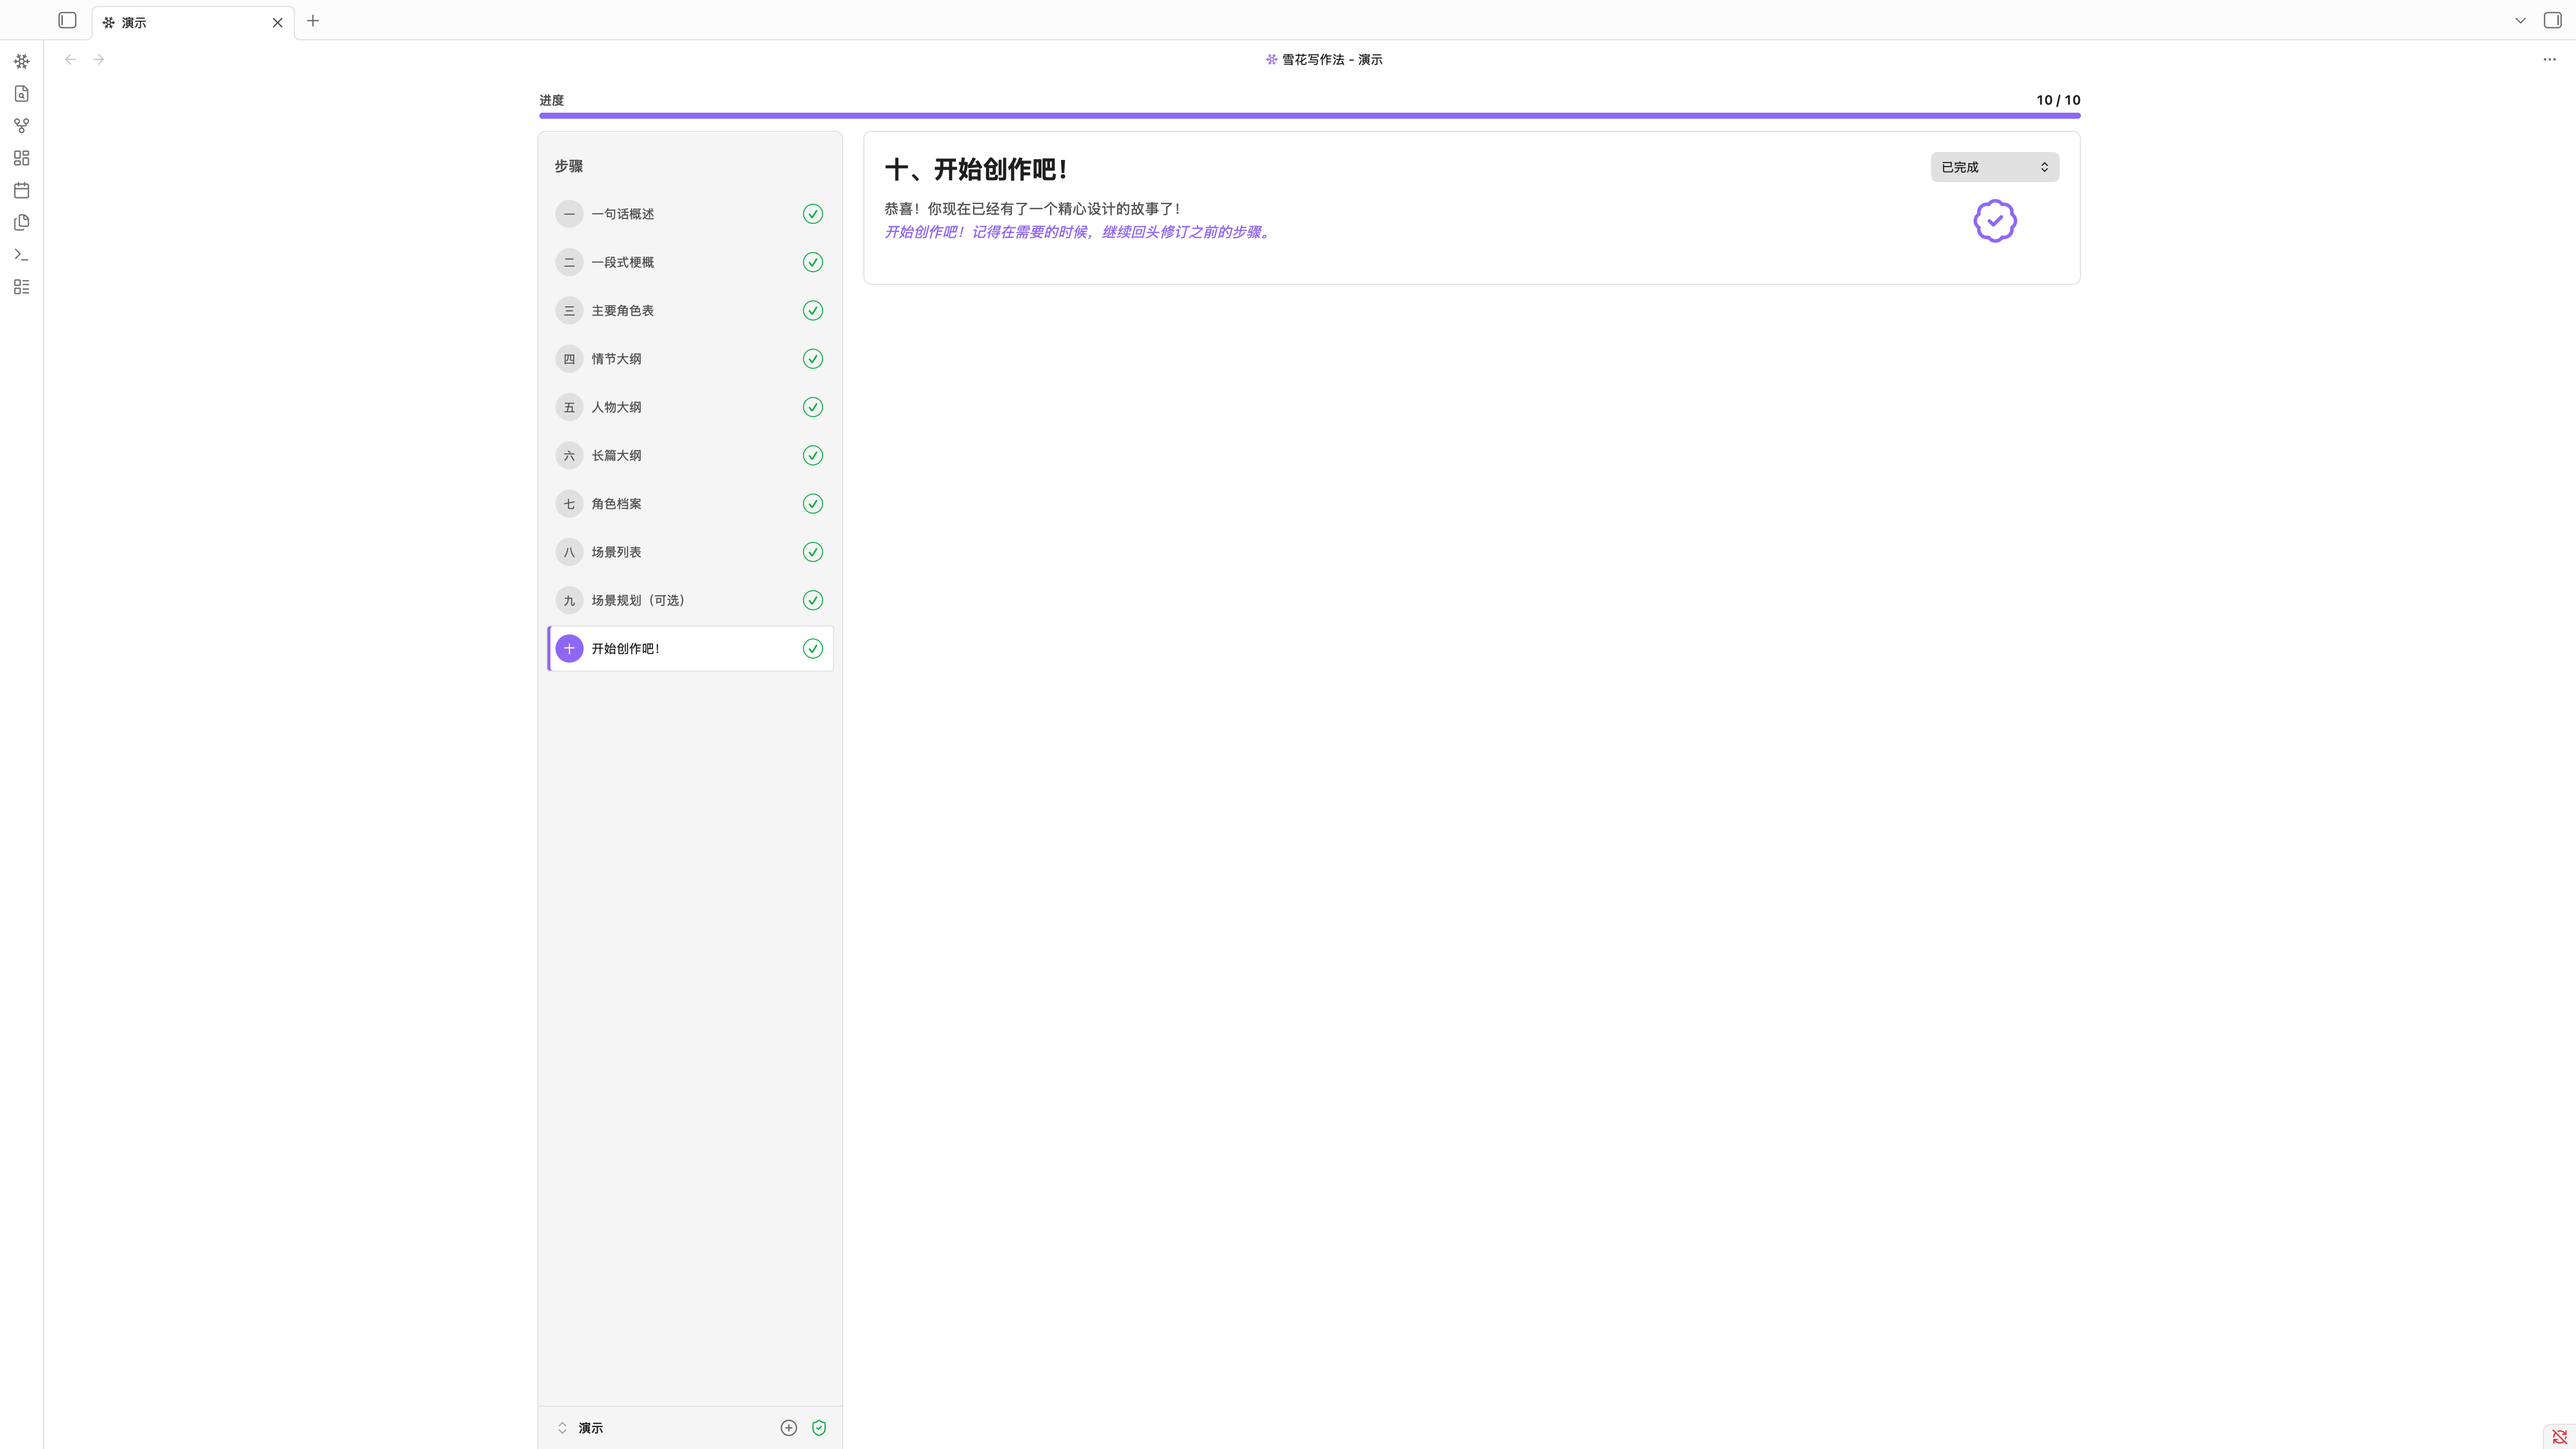
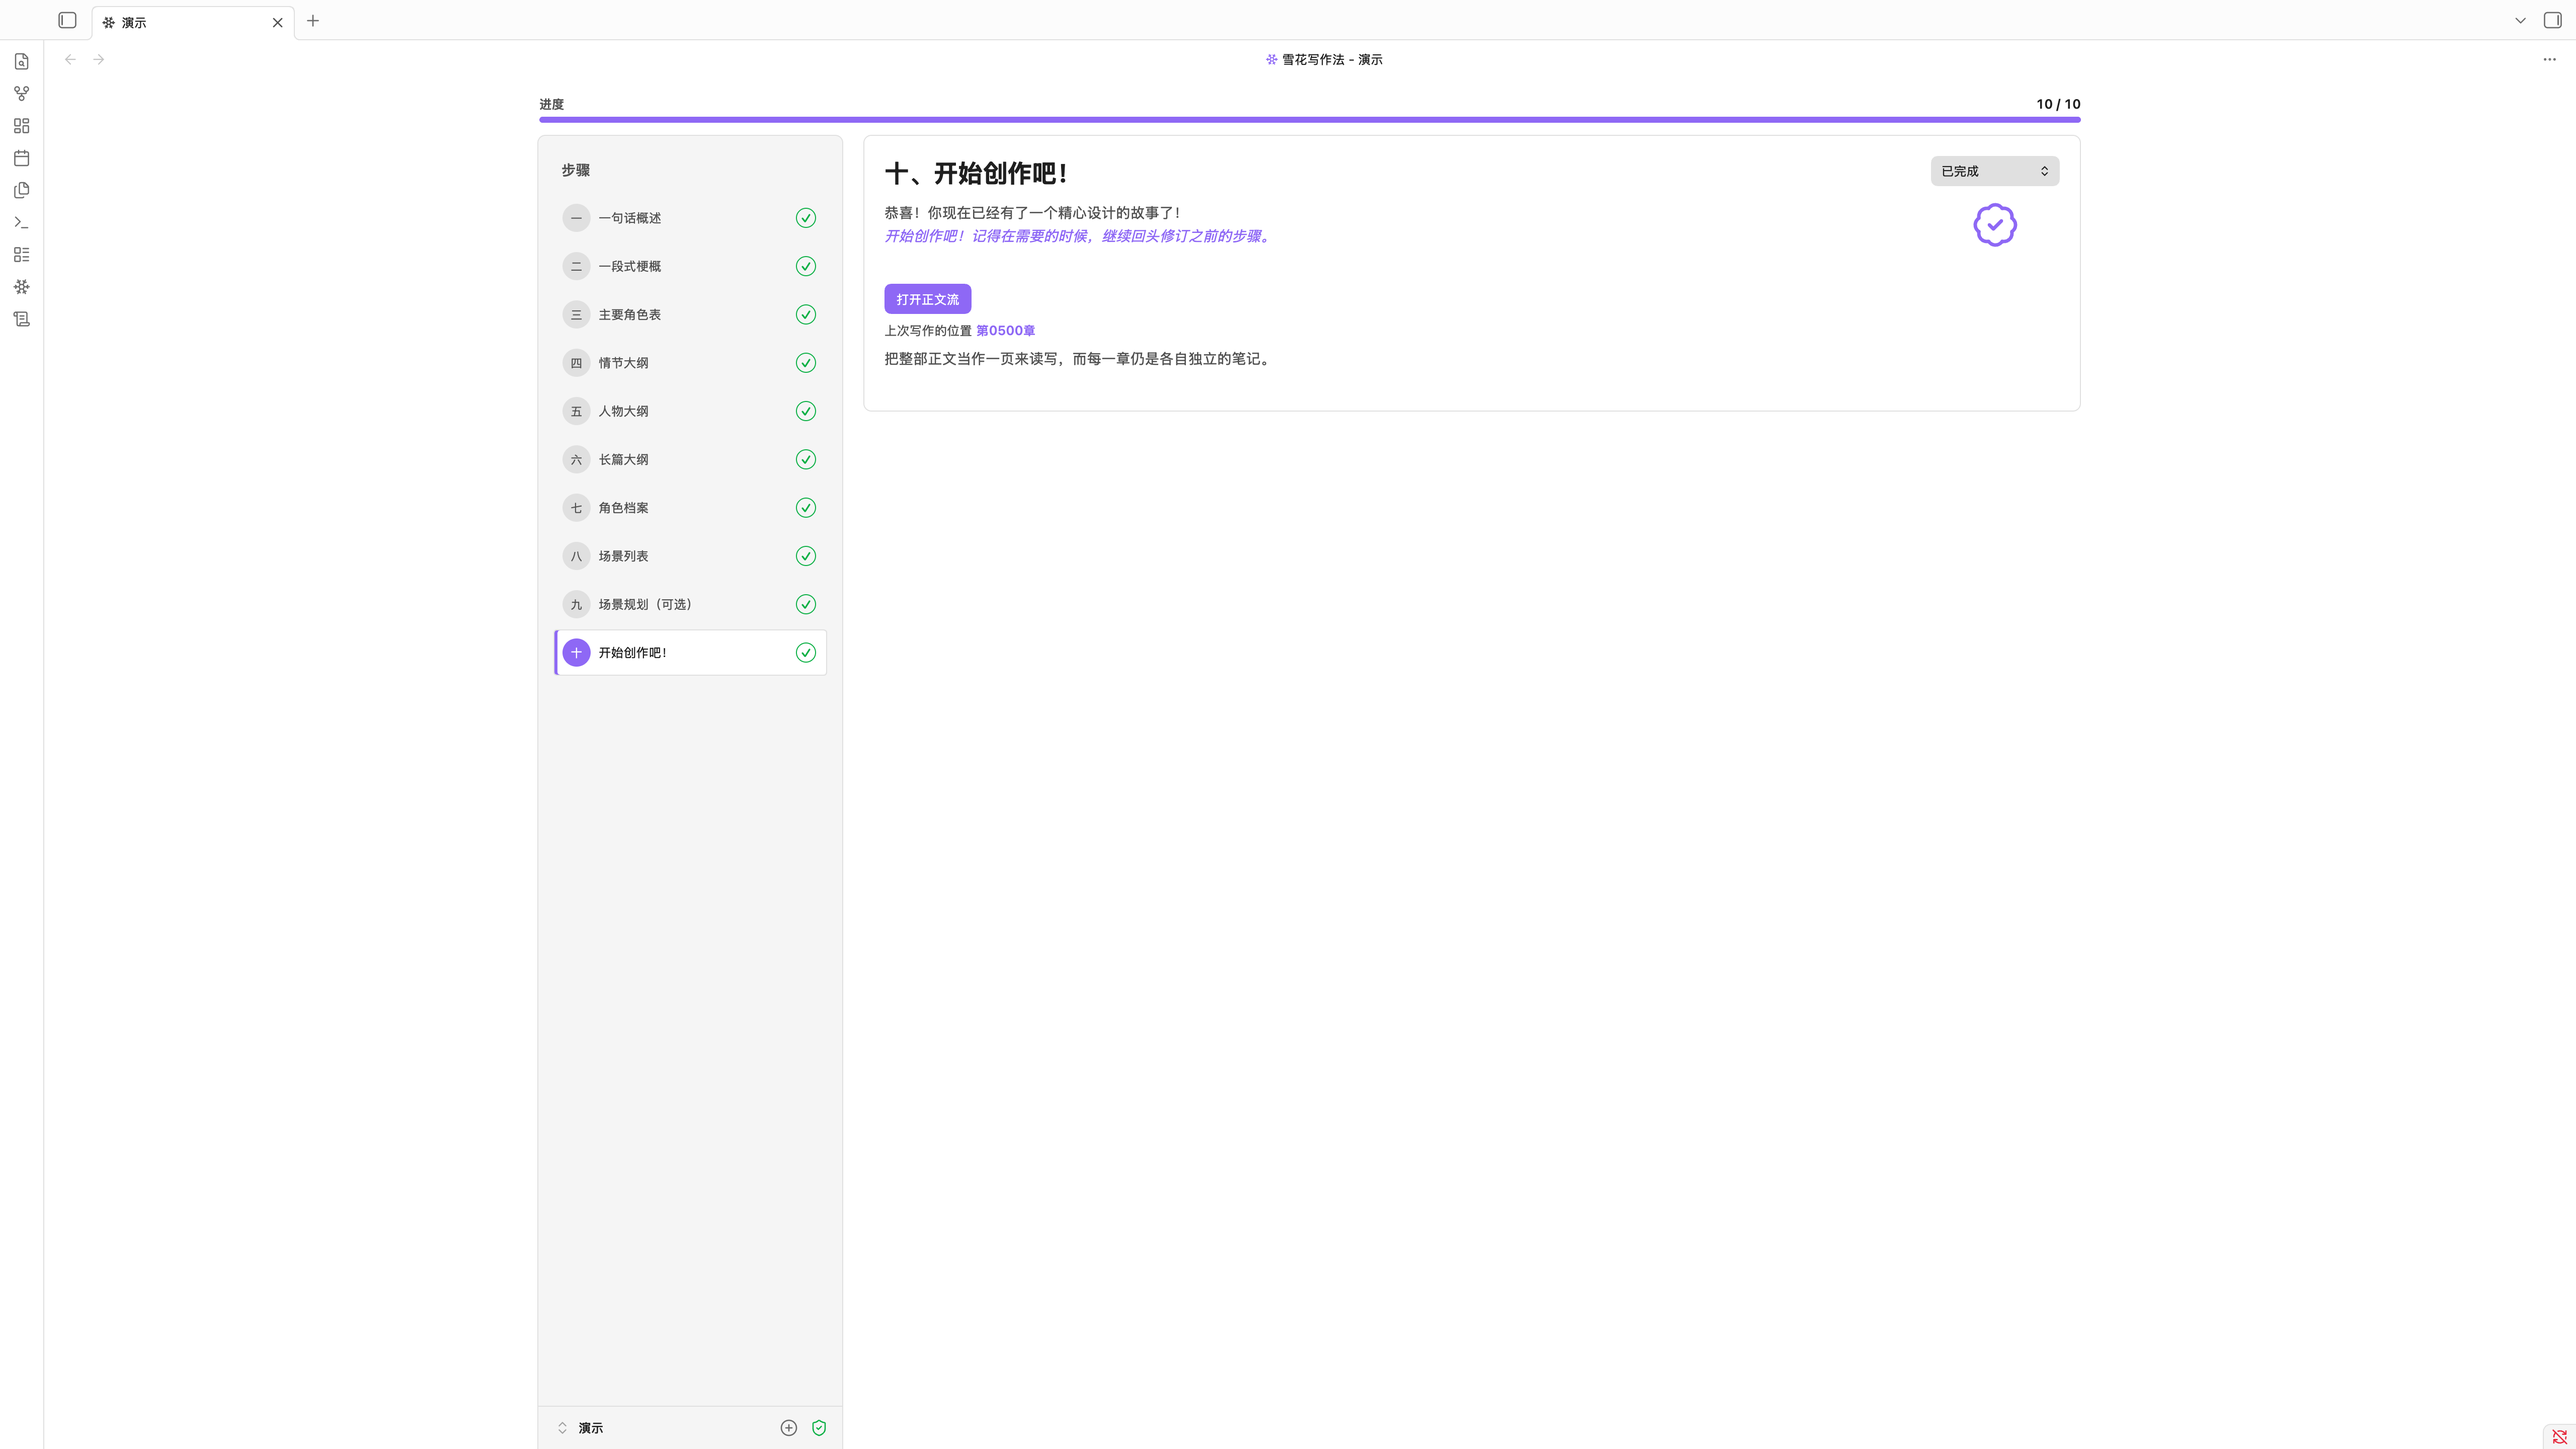
docs: introduce the manuscript stream and refresh the step screenshots

Changed region(s): [[0.1875, 0.0625, 0.8125, 0.25], [0.1875, 0.125, 0.2812, 0.4688], [0.4375, 0.2188, 0.4688, 0.25]]

diff --git a/README.md b/README.md
@@ -123,6 +123,16 @@ Work from a compact premise toward a scene-level plan. Each stage keeps the earl
 
 </details>
 
+### Manuscript stream
+
+A novel is easier to write in chapters and easier to read as a book. The manuscript stream gives you both at once: every chapter stays its own Markdown note on disk, and the whole draft reads as a single continuous page. If you have used Scrivener, this is its Scrivenings mode, now living in Obsidian.
+
+<p align="center"><img src="assets/screenshots/manuscript-stream-en.gif" width="100%" alt="Reading and writing a whole manuscript as one continuous page" /></p>
+
+In the manuscript stream, click any chapter and it becomes an editing view, and it returns to reading view when you move to another chapter. You can *(i) insert a chapter between two others, (ii) cut one in two at the caret, or (iii) merge it into the next one.*
+
+**All actions stay quick when the book is long (under 20ms on average).** Measured on a vault of 3000+ notes holding two projects of 1500 chapters, each chapter with more than 2000 English words or Chinese characters.
+
 <a id="installation"></a>
 
 ## Installation
@@ -444,6 +454,16 @@ Randy Ingermanson 的雪花写作法得名于[科赫雪花](https://baike.baidu.
 </table>
 
 </details>
+
+### 正文流
+
+长篇按章节写更顺手，成篇阅读才像一本书。正文流可以让两者兼得：每一章仍是本地各自独立的 Markdown 笔记，而整部正文读起来像是连续的一页。如果你用过 Scrivener，这就是它的 Scrivenings 模式，如今就在 Obsidian 里。
+
+<p align="center"><img src="assets/screenshots/manuscript-stream-cn.gif" width="100%" alt="把整部正文当作一页连续读写" /></p>
+
+在正文流中，点击任意一章，它就变成编辑视图；当你转到另一章时，它又回到阅读视图。你可以*（一）在两章之间插入新的一章，（二）在光标处把一章拆成两章，或（三）把它并入下一章。*
+
+**书籍再长，各项操作也依然利落，平均不到 20 毫秒。** 实测环境为一个 3000 多篇笔记的库，其中两个项目各有 1500 章，每章都在 2000 个英文单词或中文字以上。
 
 ## 安装
 
